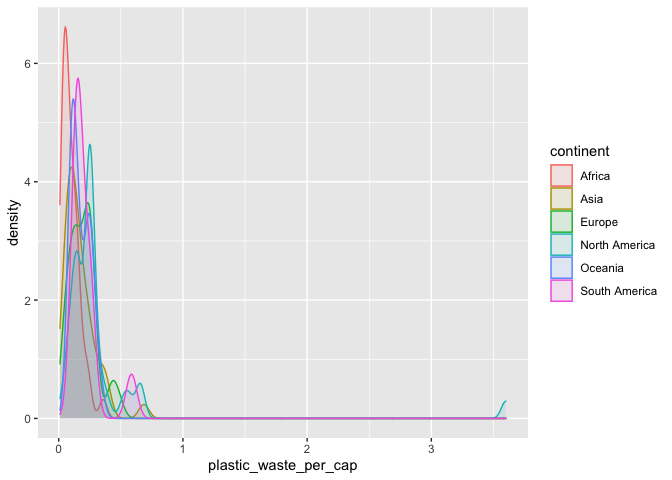
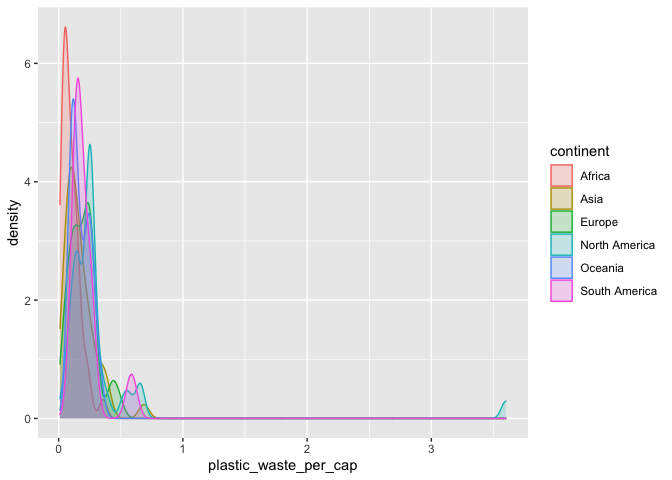
completed first 7 exercises

Changed region(s): [[0.0625, 0.375, 0.1875, 0.875]]

diff --git a/lab-02.md b/lab-02.md
@@ -91,50 +91,81 @@ ggplot(data = plastic_waste,
        mapping = aes(x = plastic_waste_per_cap, 
                      color = continent, 
                      fill = continent)) +
-  geom_density(alpha = 0.1)
+  geom_density(alpha = 0.2)
 ```
 
     ## Warning: Removed 51 rows containing non-finite values (stat_density).
 
 ![](lab-02_files/figure-gfm/unnamed-chunk-5-1.png)<!-- -->
 
+``` r
+ggplot(data = plastic_waste, 
+       mapping = aes(x = continent, 
+                     y = plastic_waste_per_cap)) +
+  geom_boxplot()
+```
+
+    ## Warning: Removed 51 rows containing non-finite values (stat_boxplot).
+
+![](lab-02_files/figure-gfm/unnamed-chunk-6-1.png)<!-- -->
+
 ### Exercise 4
 
 ``` r
-# insert code here
+ggplot(data = plastic_waste, aes(x = continent, y = plastic_waste_per_cap)) +
+  geom_violin()
 ```
+
+    ## Warning: Removed 51 rows containing non-finite values (stat_ydensity).
+
+![](lab-02_files/figure-gfm/plastic-waste-violin-1.png)<!-- -->
 
 ### Exercise 5
 
-Remove this text, and add your answer for Exercise 5 here.
-
 ``` r
-# insert code here
+ggplot(data = plastic_waste, aes(y = mismanaged_plastic_waste_per_cap, x = plastic_waste_per_cap)) +
+  geom_point()
 ```
+
+    ## Warning: Removed 51 rows containing missing values (geom_point).
+
+![](lab-02_files/figure-gfm/plastic-waste-mismanaged-1.png)<!-- -->
 
 ### Exercise 6
 
-Remove this text, and add your answer for Exercise 6 here.
+positive relationship
 
 ``` r
-# insert code here
+ggplot(data = plastic_waste, aes(y = mismanaged_plastic_waste_per_cap, x = plastic_waste_per_cap,
+                                 color = continent)) +
+  geom_point()
 ```
+
+    ## Warning: Removed 51 rows containing missing values (geom_point).
+
+![](lab-02_files/figure-gfm/plastic-waste-mismanaged-continent-1.png)<!-- -->
 
 ### Exercise 7
 
-Remove this text, and add your answer for Exercise 7 here.
-
 ``` r
-# insert code here
+ggplot(data = plastic_waste, aes(y = total_pop, x = plastic_waste_per_cap)) +
+  geom_point()
 ```
 
+    ## Warning: Removed 61 rows containing missing values (geom_point).
+
+![](lab-02_files/figure-gfm/plastic-waste-population-total-1.png)<!-- -->
+
 ``` r
-# insert code here
+ggplot(data = plastic_waste, aes(y = coastal_pop, x = plastic_waste_per_cap)) +
+  geom_point()
 ```
+
+    ## Warning: Removed 51 rows containing missing values (geom_point).
+
+![](lab-02_files/figure-gfm/plastic-waste-population-coastal-1.png)<!-- -->
 
 ### Exercise 8
-
-Remove this text, and add your answer for Exercise 8 here.
 
 ``` r
 # insert code here
